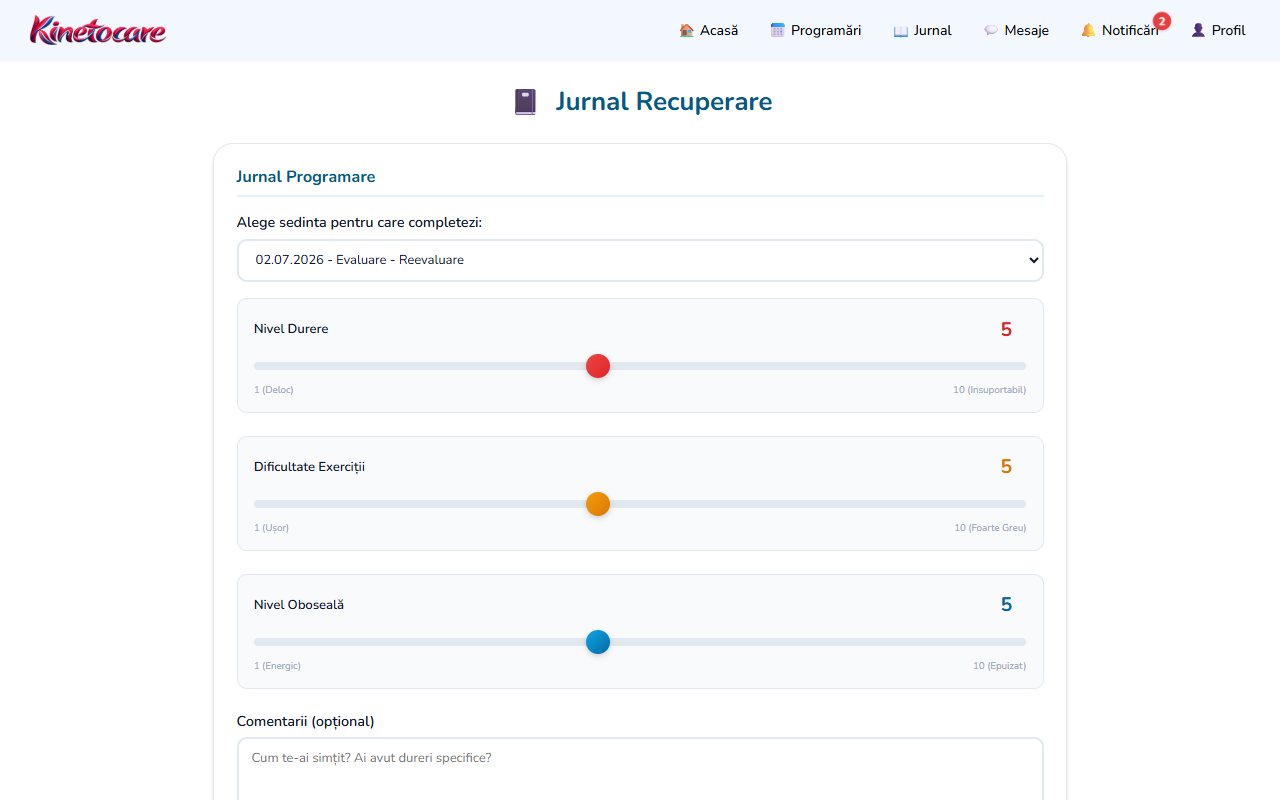
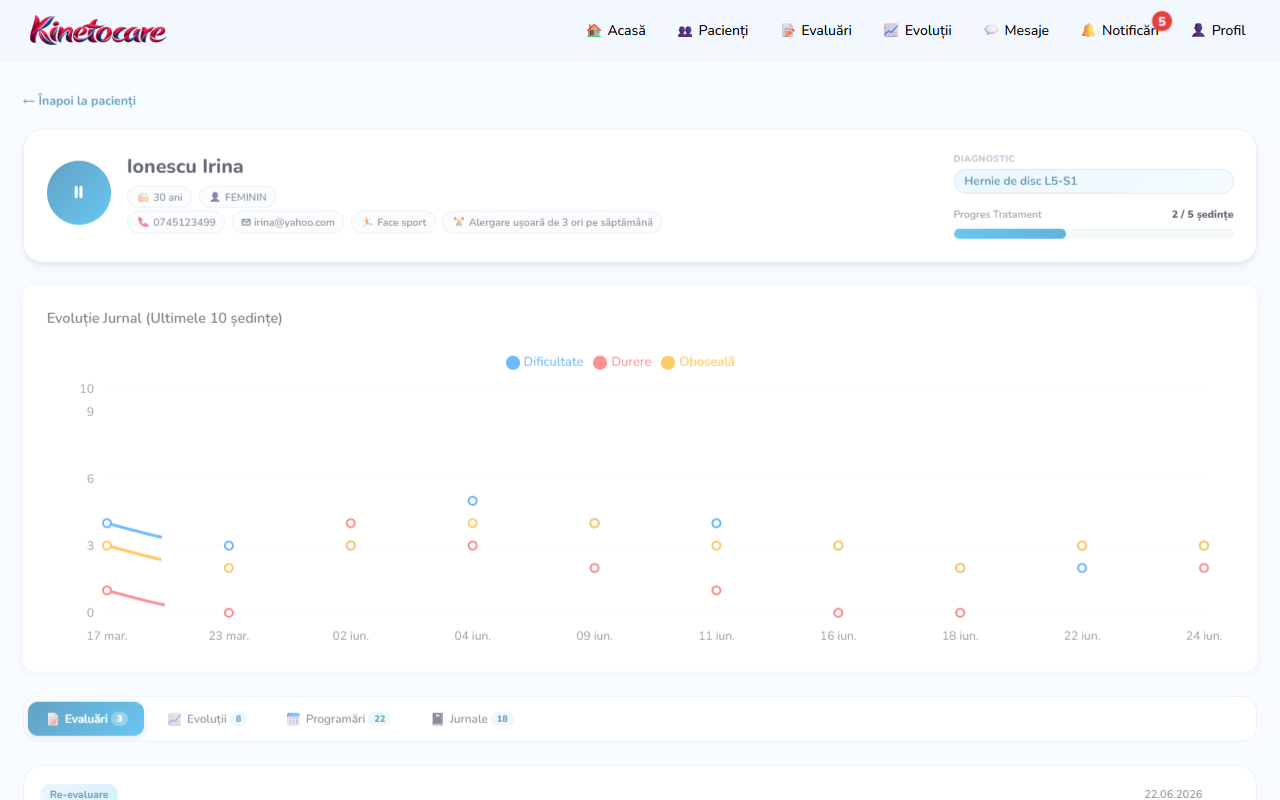
Corecteaza capturile KinetoCare: fisa reala din contul terapeutului, programare cu ore disponibile, thumbnail din calendarul terapeutului

diff --git a/index.html b/index.html
@@ -485,7 +485,7 @@ input, textarea, select{font-family:'Work Sans',sans-serif;}
         <div style="display:flex;flex-wrap:wrap;flex-direction:row-reverse;gap:clamp(26px,4vw,64px);align-items:center;padding:clamp(34px,4.5vw,48px) 0;border-top:1px solid oklch(0.9 0.02 60);">
           <div style="flex:1.25 1 300px;min-width:0;border-radius:16px;overflow:hidden;background:oklch(0.98 0.006 75);border:1px solid oklch(0.9 0.02 60);transition:box-shadow .35s ease, transform .35s ease;" style-hover="box-shadow:0 18px 40px rgba(43,35,24,0.13);transform:translateY(-3px);">
             <div style="width:100%;aspect-ratio:16/10;">
-              <image-slot id="proj-kinetocare" shape="rect" role="img" aria-label="KinetoCare — dashboard cu statistici" placeholder="KinetoCare — dashboard statistici" src="./kinetocare-thumb.png"></image-slot>
+              <image-slot id="proj-kinetocare" shape="rect" role="img" aria-label="KinetoCare — calendarul terapeutului, plin de programări" placeholder="KinetoCare — calendar terapeut" src="./kinetocare-calendar-terapeut.png"></image-slot>
             </div>
           </div>
           <div style="flex:1 1 290px;min-width:0;">
